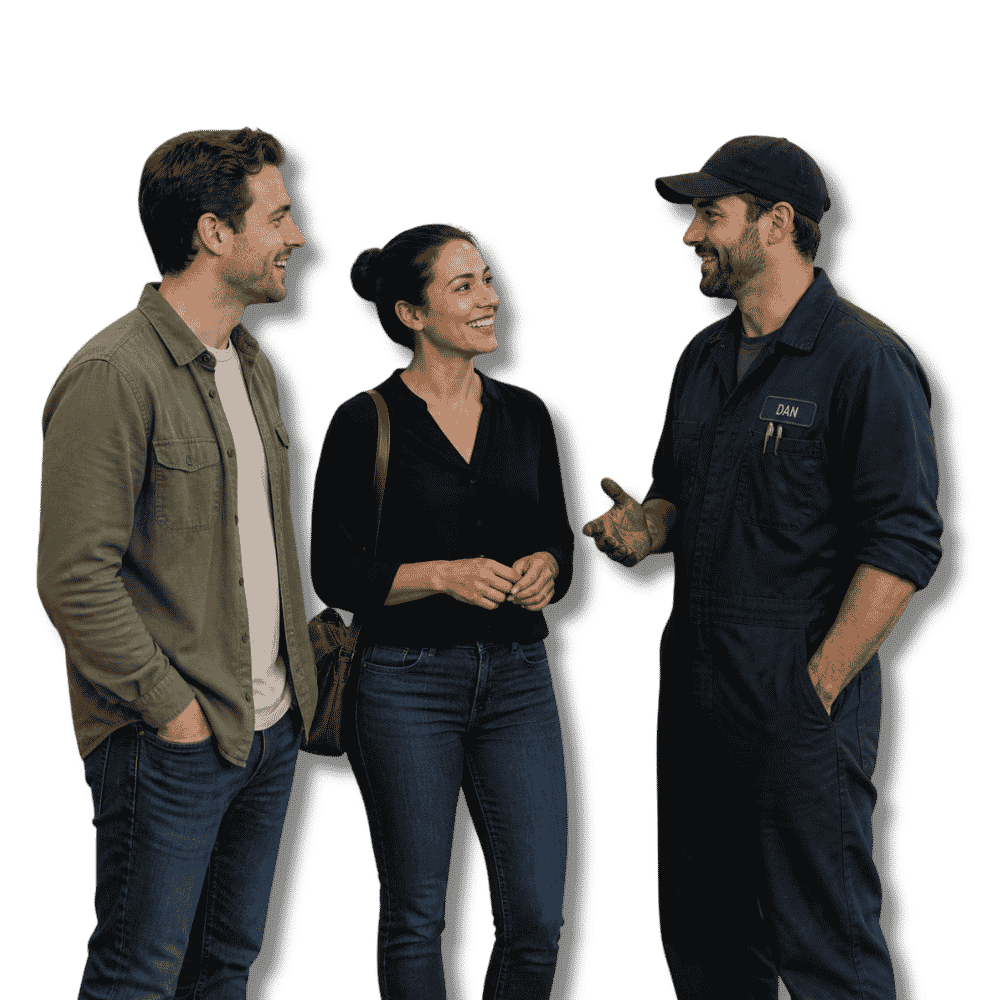
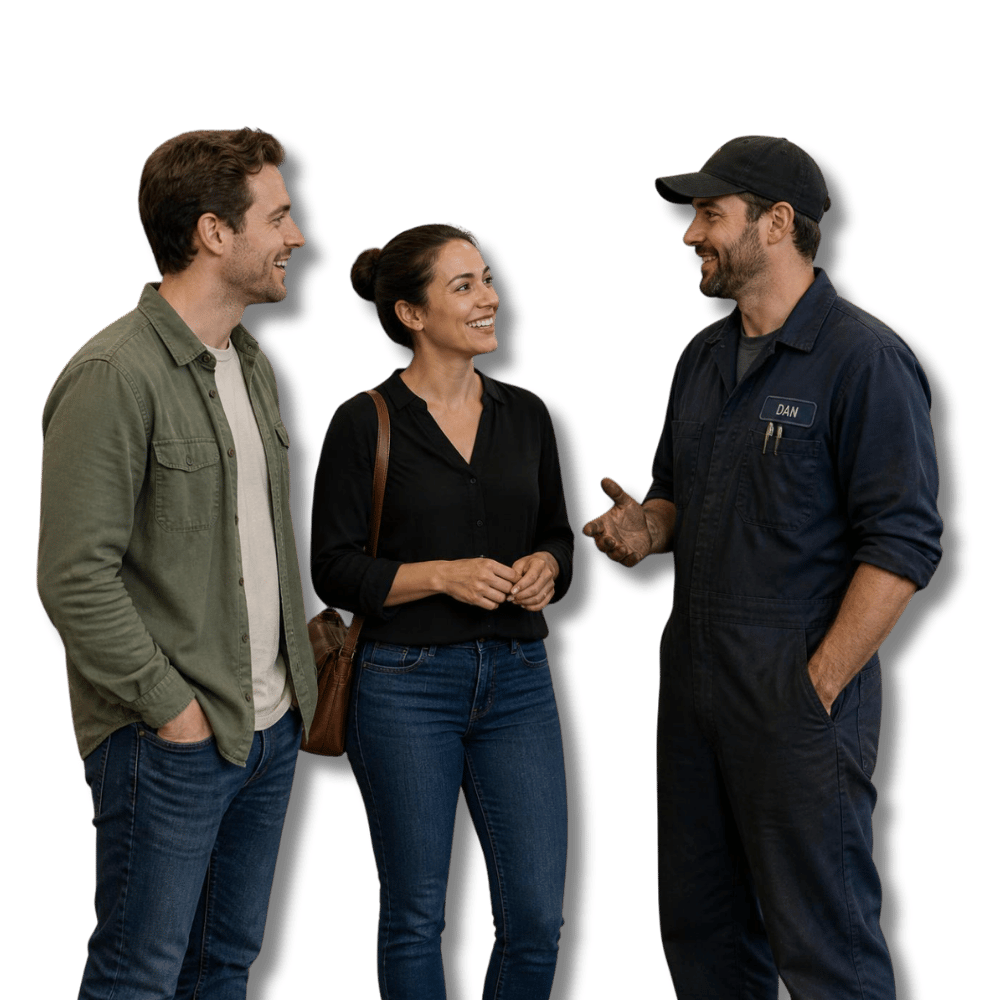
affiliate page update

diff --git a/components/AffiliateClub.tsx b/components/AffiliateClub.tsx
@@ -1,6 +1,6 @@
 'use client';
 
-import Image from 'next/image';
+import Image, { getImageProps } from 'next/image';
 import { motion, type Variants } from 'framer-motion';
 import {
   Share2,
@@ -48,7 +48,48 @@ const STEPS = [
 
 
 
+/* Art-directed hero portrait: a near-square crop from lg up, a tighter
+   landscape crop below it. Built with getImageProps + <picture> so the
+   browser downloads exactly one of the two files. */
+function getHeroPortraitProps() {
+  const common = {
+    alt: 'Credit Banc member holding a $500 “I Know Someone” Club gift card',
+    priority: true,
+  } as const;
+
+  const desktopSizes = '(min-width: 1536px) 40rem, (min-width: 1280px) 32rem, 25rem';
+  const mobileSizes = '(min-width: 640px) 560px, 92vw';
+
+  const {
+    props: { srcSet: desktopSrcSet },
+  } = getImageProps({
+    ...common,
+    src: '/hero-affiliate-desktop.png',
+    width: 1650,
+    height: 1600,
+    sizes: desktopSizes,
+  });
+
+  const {
+    props: { srcSet: mobileSrcSet, ...rest },
+  } = getImageProps({
+    ...common,
+    src: '/hero-affiliate-mobile.png',
+    width: 800,
+    height: 600,
+    sizes: mobileSizes,
+  });
+
+  return {
+    desktop: { srcSet: desktopSrcSet, sizes: desktopSizes },
+    mobile: { srcSet: mobileSrcSet, sizes: mobileSizes },
+    imgProps: rest,
+  };
+}
+
 export default function AffiliateClub() {
+  const { desktop, mobile, imgProps } = getHeroPortraitProps();
+
   return (
     <div className="bg-surface">
       {/* ---------- Hero — full-bleed yellow ---------- */}
@@ -109,20 +150,33 @@ export default function AffiliateClub() {
                 aria-hidden
                 className="absolute bottom-0 left-1/2 -translate-x-1/2 h-72 w-72 sm:h-96 sm:w-96 lg:h-[34rem] lg:w-[34rem] rounded-full bg-white/30 blur-3xl pointer-events-none"
               />
-              <Image
-                src="/hero%20image.png"
-                alt="Credit Banc member holding an “I Know Someone” Club card"
-                width={600}
-                height={800}
-                priority
-                sizes="(max-width: 1024px) 92vw, 750px"
-                className="relative block w-full max-w-[460px] sm:max-w-[560px] h-auto lg:w-auto lg:max-w-none lg:h-[38rem] lg:-mt-28 xl:h-[46rem] xl:-mt-36 2xl:h-[62rem] 2xl:-mt-52 object-contain object-bottom drop-shadow-[0_25px_35px_rgba(32,37,54,0.28)]"
-              />
+              <picture className="relative block w-full lg:w-auto">
+                <source
+                  media="(min-width: 1024px)"
+                  srcSet={desktop.srcSet}
+                  sizes={desktop.sizes}
+                />
+                <source
+                  media="(max-width: 1023px)"
+                  srcSet={mobile.srcSet}
+                  sizes={mobile.sizes}
+                />
+                {/* eslint-disable-next-line jsx-a11y/alt-text -- alt comes from imgProps */}
+                <img
+                  {...imgProps}
+                  fetchPriority="high"
+                  className="relative block h-auto w-full max-w-[460px] aspect-[800/600] sm:max-w-[560px] lg:aspect-[1650/1600] lg:w-[25rem] lg:max-w-none lg:-mt-16 xl:w-[32rem] xl:-mt-20 2xl:w-[40rem] 2xl:-mt-28 object-contain object-bottom drop-shadow-[0_25px_35px_rgba(32,37,54,0.28)]"
+                />
+              </picture>
             </motion.div>
 
+            {/* Below lg the copy card sits in front of the photo (z-20) and
+                cancels the flex gap plus 4px (-mt-9 vs gap-8), so the figure —
+                whose crop runs flush to the image's bottom edge — reads as
+                rising out of the card instead of ending above it. */}
             <motion.div
               variants={fadeUp}
-              className="order-3 lg:order-none lg:col-start-1 lg:row-start-2 lg:self-start -mt-20 sm:-mt-32 lg:mt-0 mb-8 lg:mb-16 max-w-2xl rounded-2xl border-l-4 border-on-secondary-fixed bg-white/85 backdrop-blur-sm p-5 sm:p-6 pt-7 sm:pt-8 lg:pt-6 shadow-[0_14px_34px_-18px_rgba(32,37,54,0.55)]"
+              className="order-3 lg:order-none lg:col-start-1 lg:row-start-2 lg:self-start relative z-20 lg:z-auto -mt-9 lg:mt-0 mb-8 lg:mb-16 max-w-2xl rounded-2xl border-l-4 border-on-secondary-fixed bg-white/85 backdrop-blur-sm p-5 sm:p-6 pt-7 sm:pt-8 lg:pt-6 shadow-[0_14px_34px_-18px_rgba(32,37,54,0.55)]"
             >
                 <p className="text-base sm:text-lg leading-relaxed text-on-secondary-fixed/80">
                   A friend. A cousin. A neighbor. The guy who fixed your roof.
